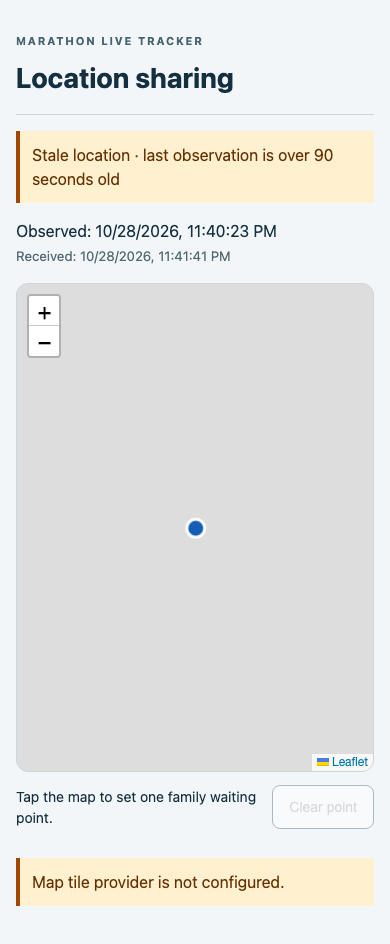
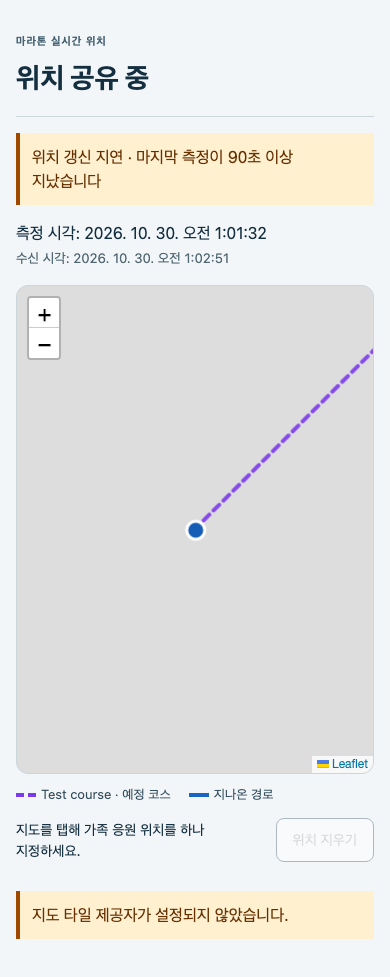
Translate family viewer to Korean and refine initial map view
- All viewer UI text, tooltips, aria labels and errors in Korean (lang="ko")
- Dates formatted with ko-KR locale; word-break: keep-all for Hangul
- Map focuses on runner/waiting point instead of whole course; course start as fallback
- E2E updated for Korean labels and marker visibility

diff --git a/web/components/Viewer.tsx b/web/components/Viewer.tsx
@@ -8,10 +8,10 @@ export default function Viewer(){
  const cursor=useRef(0),session=useRef<string|null>(null),blocked=useRef(false);
  useEffect(()=>{const token=location.hash.slice(1);if(token)history.replaceState(null,'',location.pathname);
  let alive=true;
- (async()=>{try{if(token){const r=await fetch('/api/session',{method:'POST',headers:{'Content-Type':'application/json'},body:JSON.stringify({token})});if(!r.ok)throw new Error('Private link expired, revoked or unavailable. Reopen the saved link to retry.');}if(alive)setReady(true);}catch(e){if(alive)setError((e as Error).message);}})();return()=>{alive=false};},[]);
+ (async()=>{try{if(token){const r=await fetch('/api/session',{method:'POST',headers:{'Content-Type':'application/json'},body:JSON.stringify({token})});if(!r.ok)throw new Error('전용 링크가 만료되었거나 취소되었거나 사용할 수 없습니다. 저장한 링크를 다시 열어 주세요.');}if(alive)setReady(true);}catch(e){if(alive)setError((e as Error).message);}})();return()=>{alive=false};},[]);
  const refresh=useCallback(async(signal:AbortSignal)=>{
  const r=await fetch(`/api/track?cursor=${cursor.current}`,{cache:'no-store',signal});
- if(!r.ok){if(r.status===401||r.status===403){blocked.current=true;setTrack(null);setPoints([]);setCourse(null);}throw new Error(r.status===401||r.status===403?'Private link expired or revoked. Open a valid family link.':'Connection unavailable. Displayed observation may be old.');}
+ if(!r.ok){if(r.status===401||r.status===403){blocked.current=true;setTrack(null);setPoints([]);setCourse(null);}throw new Error(r.status===401||r.status===403?'전용 링크가 만료되었거나 취소되었습니다. 유효한 가족 링크로 다시 접속해 주세요.':'연결할 수 없습니다. 표시된 위치는 오래된 정보일 수 있습니다.');}
  const data:Track=await r.json();if(signal.aborted)return;
  const changed=data.session_id!==session.current;
  if(changed){session.current=data.session_id;cursor.current=0;setPoints([]);}
@@ -24,14 +24,14 @@ export default function Viewer(){
  const run=async()=>{if(stopped||document.hidden||blocked.current)return;controller=new AbortController();let more=false;try{more=await refresh(controller.signal)??false;}catch(e){if(!controller.signal.aborted)setError((e as Error).message);}if(!stopped&&!document.hidden&&!blocked.current)timer=setTimeout(run,more?100:12000);};
  const visibility=()=>{clearTimeout(timer);controller?.abort();if(!document.hidden)void run();};void run();document.addEventListener('visibilitychange',visibility);
  return()=>{stopped=true;clearTimeout(timer);controller?.abort();document.removeEventListener('visibilitychange',visibility);};},[ready,refresh]);
- async function waiting(body:unknown){if(busy)return;setBusy(true);try{const r=await fetch('/api/waiting-point',{method:'POST',headers:{'Content-Type':'application/json'},body:JSON.stringify(body)});if(!r.ok)throw new Error('Waiting point could not be saved.');const data=await r.json();setTrack(old=>old?{...old,waiting_point:data.waiting_point}:old);setError('');}catch(e){setError((e as Error).message);}finally{setBusy(false);}}
+ async function waiting(body:unknown){if(busy)return;setBusy(true);try{const r=await fetch('/api/waiting-point',{method:'POST',headers:{'Content-Type':'application/json'},body:JSON.stringify(body)});if(!r.ok)throw new Error('응원 위치를 저장하지 못했습니다.');const data=await r.json();setTrack(old=>old?{...old,waiting_point:data.waiting_point}:old);setError('');}catch(e){setError((e as Error).message);}finally{setBusy(false);}}
  useEffect(()=>{if(!track?.latest)return;const delay=Math.max(0,Date.parse(track.latest.recorded_at)+90000-Date.now());const timer=setTimeout(()=>setNow(Date.now()),Math.min(delay,2147483647));return()=>clearTimeout(timer);},[track?.latest]);
  const active=track?.status==='active',stale=active&&isStale(track.latest,now);
- return <main><header><p className="eyebrow">MARATHON LIVE TRACKER</p><h1>{!track?'Private family view':active?'Location sharing':track.status==='not_sharing'?'Not sharing':'Sharing ended'}</h1></header>
+ return <main><header><p className="eyebrow">마라톤 실시간 위치</p><h1>{!track?'가족 전용 화면':active?'위치 공유 중':track.status==='not_sharing'?'공유 중 아님':'공유 종료'}</h1></header>
  {error&&<p role="alert" className="warning">{error}</p>}
- {active&&<><p className={stale?'warning':'status'} role="status">{!track.latest?'Waiting for GPS observation':stale?'Stale location · last observation is over 90 seconds old':'Last observed location'}</p>
- {track.latest&&<p>Observed: <time dateTime={track.latest.recorded_at}>{new Date(track.latest.recorded_at).toLocaleString()}</time><br/><small>Received: {new Date(track.latest.received_at).toLocaleString()}</small></p>}</>}
- {track&&<><Map points={active?points:[]} latest={active?track.latest:null} waiting={track.waiting_point} course={course} onSelect={(latitude,longitude)=>void waiting({latitude,longitude})}/><div className="legend">{course&&<span><i className="course-key"/> {course.name} · planned course</span>}{active&&<span><i className="travel-key"/> Traveled path</span>}</div><div className="actions"><p>Tap the map to set one family waiting point.</p><button disabled={!track.waiting_point||busy} onClick={()=>void waiting({clear:true})}>Clear point</button></div></>}
- {!process.env.NEXT_PUBLIC_TILE_URL&&track&&<p className="warning">Map tile provider is not configured.</p>}
+ {active&&<><p className={stale?'warning':'status'} role="status">{!track.latest?'GPS 위치 수신 대기 중':stale?'위치 갱신 지연 · 마지막 측정이 90초 이상 지났습니다':'마지막 측정 위치'}</p>
+ {track.latest&&<p>측정 시각: <time dateTime={track.latest.recorded_at}>{new Date(track.latest.recorded_at).toLocaleString('ko-KR')}</time><br/><small>수신 시각: {new Date(track.latest.received_at).toLocaleString('ko-KR')}</small></p>}</>}
+ {track&&<><Map points={active?points:[]} latest={active?track.latest:null} waiting={track.waiting_point} course={course} onSelect={(latitude,longitude)=>void waiting({latitude,longitude})}/><div className="legend">{course&&<span><i className="course-key"/> {course.name} · 예정 코스</span>}{active&&<span><i className="travel-key"/> 지나온 경로</span>}</div><div className="actions"><p>지도를 탭해 가족 응원 위치를 하나 지정하세요.</p><button disabled={!track.waiting_point||busy} onClick={()=>void waiting({clear:true})}>위치 지우기</button></div></>}
+ {!process.env.NEXT_PUBLIC_TILE_URL&&track&&<p className="warning">지도 타일 제공자가 설정되지 않았습니다.</p>}
  </main>;
 }

diff --git a/tests/e2e.ts b/tests/e2e.ts
@@ -40,8 +40,9 @@ try{
  await expect.poll(async()=>{try{return (await fetch(origin)).status;}catch{return 0;}},{timeout:30000}).toBe(200);
  browser=await chromium.launch({headless:true});const context=await browser.newContext({viewport:{width:390,height:844},isMobile:true,hasTouch:true});const page=await context.newPage();
  const browserErrors:string[]=[];page.on('pageerror',e=>browserErrors.push(e.message));
+ await request('set-waiting-point',view,{latitude:0.001,longitude:0.001});
  const pageResponse=await page.goto(`${origin}/track#${view}`);
- await expect(page.getByRole('heading',{name:'Not sharing',exact:true})).toBeVisible();await expect(page.getByText('Test course · planned course')).toBeVisible();
+ await expect(page.getByRole('heading',{name:'공유 중 아님',exact:true})).toBeVisible();await expect(page.getByText('Test course · 예정 코스')).toBeVisible();
  const publicCourse=await fetch(`${origin}/api/course`);assert.equal(publicCourse.status,401);
  assert.equal(page.url(),`${origin}/track`);assert.equal(pageResponse?.headers()['referrer-policy'],'no-referrer');assert.match(pageResponse?.headers()['cache-control']??'',/no-store/);
  const cookie=(await context.cookies()).find(c=>c.name==='tracker_view');assert.ok(cookie?.httpOnly&&cookie.secure&&cookie.sameSite==='Strict');assert.ok(!cookie.value.includes(view));
@@ -50,19 +51,21 @@ try{
  const {session_id}=await request('start-session',device);
  const p={id:randomUUID(),seq:0,latitude:0,longitude:0,horizontal_accuracy_m:10,recorded_at:new Date().toISOString()};
  await request('ingest-location',device,{session_id,points:[p,{...p,id:randomUUID(),seq:1,longitude:0.0001,recorded_at:new Date(Date.now()+500).toISOString()}]});
- await expect(page.getByRole('heading',{name:'Location sharing',exact:true})).toBeVisible({timeout:18000});
- await expect(page.getByRole('status')).toContainText('Last observed location');
- const map=page.getByLabel('Runner location and route. Tap to set one family waiting point.');await expect(map).toBeVisible();
- const box=await map.boundingBox();assert.ok(box);await map.tap({position:{x:box.width/2+35,y:box.height/2}});
- await expect(page.getByRole('button',{name:'Clear point'})).toBeEnabled();
+ await expect(page.getByRole('heading',{name:'위치 공유 중',exact:true})).toBeVisible({timeout:18000});
+ await expect(page.getByRole('status')).toContainText('마지막 측정 위치');
+ const map=page.getByLabel('주자 위치와 경로. 탭해서 가족 응원 위치를 하나 지정하세요.');await expect(map).toBeVisible();
+ const runner=page.locator('.runner-marker'),family=page.locator('.waiting-marker');await expect(runner).toBeVisible();await expect(family).toBeVisible();
+ const box=await map.boundingBox();assert.ok(box);
+ await expect.poll(async()=>{const a=await runner.boundingBox(),b=await family.boundingBox();if(!a||!b)return false;const inside=(v:typeof a)=>v.x>=box.x&&v.y>=box.y&&v.x+v.width<=box.x+box.width&&v.y+v.height<=box.y+box.height;return inside(a)&&inside(b)&&Math.hypot(a.x-b.x,a.y-b.y)>15;}).toBe(true);await map.tap({position:{x:box.width/2+35,y:box.height/2}});
+ await expect(page.getByRole('button',{name:'위치 지우기'})).toBeEnabled();
  let piggy=await request('ingest-location',device,{session_id,points:[p]});assert.ok(piggy.waiting_point);assert.notEqual(piggy.waiting_point.longitude,0);
- const clearResponse=page.waitForResponse(r=>r.url().endsWith('/api/waiting-point')&&r.request().method()==='POST');await page.getByRole('button',{name:'Clear point'}).click();assert.equal((await clearResponse).status(),200);await expect(page.getByRole('button',{name:'Clear point'})).toBeDisabled();piggy=await request('ingest-location',device,{session_id,points:[p]});assert.equal(piggy.waiting_point,null);
- await db.query("update location_points set recorded_at=now()-interval '91 seconds'");await page.reload();await expect(page.getByRole('status')).toContainText('Stale location');await expect(map).toBeVisible();await expect(page.locator('.leaflet-interactive')).toHaveCount(3);
+ const clearResponse=page.waitForResponse(r=>r.url().endsWith('/api/waiting-point')&&r.request().method()==='POST');await page.getByRole('button',{name:'위치 지우기'}).click();assert.equal((await clearResponse).status(),200);await expect(page.getByRole('button',{name:'위치 지우기'})).toBeDisabled();piggy=await request('ingest-location',device,{session_id,points:[p]});assert.equal(piggy.waiting_point,null);
+ await db.query("update location_points set recorded_at=now()-interval '91 seconds'");await page.reload();await expect(page.getByRole('status')).toContainText('위치 갱신 지연');await expect(map).toBeVisible();await expect(page.locator('.leaflet-interactive')).toHaveCount(3);
  await mkdir(join(root,'docs/screenshots'),{recursive:true});await page.screenshot({path:join(root,'docs/screenshots/viewer-mock.png'),fullPage:true});
  // Hidden-page visibility handler cancels polling; no synthetic positions are introduced.
  await page.clock.install();await page.evaluate(()=>{Object.defineProperty(document,'hidden',{configurable:true,value:true});document.dispatchEvent(new Event('visibilitychange'));});const before=reads;await page.clock.fastForward(36000);assert.equal(reads,before);
  await page.evaluate(()=>{Object.defineProperty(document,'hidden',{configurable:true,value:false});document.dispatchEvent(new Event('visibilitychange'));});await expect.poll(()=>reads).toBeGreaterThan(before);await page.clock.resume();
- await request('stop-session',device,{session_id});await page.reload();await expect(page.getByRole('heading',{name:'Sharing ended',exact:true})).toBeVisible();await expect(page.getByRole('status')).toHaveCount(0);
+ await request('stop-session',device,{session_id});await page.reload();await expect(page.getByRole('heading',{name:'공유 종료',exact:true})).toBeVisible();await expect(page.getByRole('status')).toHaveCount(0);
  assert.deepEqual(browserErrors,[]);assert.ok(!logs.includes(view)&&!logs.includes(device));
  console.log('PASS mock E2E: private fragment exchange, encrypted HttpOnly/Secure cookie, CSRF, lifecycle polling, Leaflet tap/clear, Watch piggyback, stale measurement, hidden-page pause, stop, no secret logs');
 }finally{

diff --git a/web/components/Map.tsx b/web/components/Map.tsx
@@ -4,17 +4,22 @@ import L from 'leaflet';
 import 'leaflet/dist/leaflet.css';
 import {routeSegments,type Point,type Waiting,type Course} from '../lib/track';
 export default function Map({points,latest,waiting,course,onSelect}:{points:Point[];latest:Point|null;waiting:Waiting|null;course:Course|null;onSelect:(lat:number,lon:number)=>void}){
- const div=useRef<HTMLDivElement>(null),map=useRef<L.Map|null>(null),layer=useRef<L.LayerGroup|null>(null),select=useRef(onSelect),centered=useRef(false);
+ const div=useRef<HTMLDivElement>(null),map=useRef<L.Map|null>(null),layer=useRef<L.LayerGroup|null>(null),select=useRef(onSelect),focusLevel=useRef(0),courseFallback=useRef(false);
  select.current=onSelect;
- useEffect(()=>{if(!div.current)return;const m=L.map(div.current).setView([0,0],2);map.current=m;const tile=process.env.NEXT_PUBLIC_TILE_URL;
+ useEffect(()=>{if(!div.current)return;const m=L.map(div.current,{zoomControl:false}).setView([0,0],2);L.control.zoom({zoomInTitle:'확대',zoomOutTitle:'축소'}).addTo(m);map.current=m;const tile=process.env.NEXT_PUBLIC_TILE_URL;
  if(tile?.startsWith('https://')) L.tileLayer(tile,{attribution:process.env.NEXT_PUBLIC_TILE_ATTRIBUTION??'',maxZoom:19,referrerPolicy:'no-referrer'}).addTo(m);
  layer.current=L.layerGroup().addTo(m);m.on('click',(e:L.LeafletMouseEvent)=>select.current(e.latlng.lat,e.latlng.lng));
- return()=>{m.remove();map.current=null;centered.current=false;};},[]);
+ return()=>{m.remove();map.current=null;focusLevel.current=0;courseFallback.current=false;};},[]);
  useEffect(()=>{const l=layer.current,m=map.current;if(!l||!m)return;l.clearLayers();
- if(course){const courseLine=L.polyline(course.segments,{color:'#7c3aed',weight:4,opacity:.9,dashArray:'8 6'}).addTo(l);if(!centered.current&&courseLine.getBounds().isValid()){m.fitBounds(courseLine.getBounds(),{padding:[25,25]});centered.current=true;}}
+ if(course)L.polyline(course.segments,{color:'#7c3aed',weight:4,opacity:.9,dashArray:'8 6'}).addTo(l);
  for(const segment of routeSegments(points))L.polyline(segment.map(p=>[p.latitude,p.longitude] as [number,number]),{color:'#1865c2',weight:4}).addTo(l);
- if(latest){L.circleMarker([latest.latitude,latest.longitude],{radius:9,color:'#fff',fillColor:'#165eb5',fillOpacity:1,weight:3}).bindTooltip('Runner · last observed position').addTo(l);if(!centered.current){m.setView([latest.latitude,latest.longitude],15);centered.current=true;}}
- if(waiting)L.circleMarker([waiting.latitude,waiting.longitude],{radius:10,color:'#8c3800',fillColor:'#ffb54d',fillOpacity:1}).bindTooltip('Family waiting point').addTo(l);
+ if(latest)L.circleMarker([latest.latitude,latest.longitude],{className:'runner-marker',radius:9,color:'#fff',fillColor:'#165eb5',fillOpacity:1,weight:3}).bindTooltip('주자 · 마지막 측정 위치').addTo(l);
+ if(waiting)L.circleMarker([waiting.latitude,waiting.longitude],{className:'waiting-marker',radius:10,color:'#8c3800',fillColor:'#ffb54d',fillOpacity:1}).bindTooltip('가족 응원 위치').addTo(l);
+ // Set the initial view once for a single position and refine it once both are known.
+ // Later polls do not pull the map away from a viewer who has moved it.
+ if(latest&&waiting&&focusLevel.current<2){m.fitBounds([[latest.latitude,latest.longitude],[waiting.latitude,waiting.longitude]],{padding:[40,40],maxZoom:15,animate:false});focusLevel.current=2;}
+ else if((latest||waiting)&&focusLevel.current<1){const p=latest??waiting!;m.setView([p.latitude,p.longitude],15,{animate:false});focusLevel.current=1;}
+ else if(!latest&&!waiting&&focusLevel.current===0&&!courseFallback.current&&course?.segments[0]?.[0]){m.setView(course.segments[0][0],15,{animate:false});courseFallback.current=true;}
  },[points,latest,waiting,course]);
- return <div ref={div} className="map" aria-label="Runner location and route. Tap to set one family waiting point."/>;
+ return <div ref={div} className="map" aria-label="주자 위치와 경로. 탭해서 가족 응원 위치를 하나 지정하세요."/>;
 }

diff --git a/web/app/style.css b/web/app/style.css
@@ -1,2 +1,2 @@
-*{box-sizing:border-box}body{margin:0;color:#142f40;background:#f3f6f8;font-family:system-ui,-apple-system,sans-serif}main{max-width:780px;margin:auto;padding:22px 16px}header{border-bottom:1px solid #cbd5dc;padding-bottom:12px}.eyebrow{font-size:11px;letter-spacing:.16em;color:#466372;font-weight:700}h1{font-size:28px;margin:8px 0}p{line-height:1.5}.map{height:58dvh;min-height:300px;border:1px solid #cbd5dc;border-radius:12px;overflow:hidden}.warning{background:#fff0d0;border-left:4px solid #a04700;padding:12px;color:#663000}.status{color:#1b5142}small{color:#526873}.actions{display:flex;gap:12px;align-items:center;justify-content:space-between}.actions p{font-size:14px}button{min-height:44px;padding:8px 16px;border:1px solid #567084;border-radius:8px;background:white;font-size:14px;white-space:nowrap}button:disabled{opacity:.45}
+*{box-sizing:border-box}body{margin:0;color:#142f40;background:#f3f6f8;font-family:system-ui,-apple-system,sans-serif;word-break:keep-all}main{max-width:780px;margin:auto;padding:22px 16px}header{border-bottom:1px solid #cbd5dc;padding-bottom:12px}.eyebrow{font-size:11px;letter-spacing:.08em;color:#466372;font-weight:700}h1{font-size:28px;margin:8px 0}p{line-height:1.5}.map{height:58dvh;min-height:300px;border:1px solid #cbd5dc;border-radius:12px;overflow:hidden}.warning{background:#fff0d0;border-left:4px solid #a04700;padding:12px;color:#663000}.status{color:#1b5142}small{color:#526873}.actions{display:flex;gap:12px;align-items:center;justify-content:space-between}.actions p{font-size:14px}button{min-height:44px;padding:8px 16px;border:1px solid #567084;border-radius:8px;background:white;font-size:14px;white-space:nowrap}button:disabled{opacity:.45}
 .legend{display:flex;gap:18px;flex-wrap:wrap;margin:12px 0 2px;font-size:13px;color:#344e5e}.legend span{display:inline-flex;align-items:center;gap:5px}.legend i{display:inline-block;width:20px;border-top:4px solid #1865c2}.legend i.course-key{border-color:#7c3aed;border-top-style:dashed}

diff --git a/web/app/layout.tsx b/web/app/layout.tsx
@@ -1,3 +1,3 @@
 import './style.css';
-export const metadata={title:'Marathon Live Tracker',robots:{index:false,follow:false},referrer:'no-referrer'};
-export default function Layout({children}:{children:React.ReactNode}){return <html lang="en"><body>{children}</body></html>}
+export const metadata={title:'마라톤 실시간 위치',robots:{index:false,follow:false},referrer:'no-referrer'};
+export default function Layout({children}:{children:React.ReactNode}){return <html lang="ko"><body>{children}</body></html>}

diff --git a/web/app/page.tsx b/web/app/page.tsx
@@ -1,1 +1,1 @@
-export default function Home(){return <main><h1>Marathon Live Tracker</h1><p>Open your private family link to view sharing.</p></main>}
+export default function Home(){return <main><h1>마라톤 실시간 위치</h1><p>공유받은 가족 전용 링크로 접속해 주세요.</p></main>}
